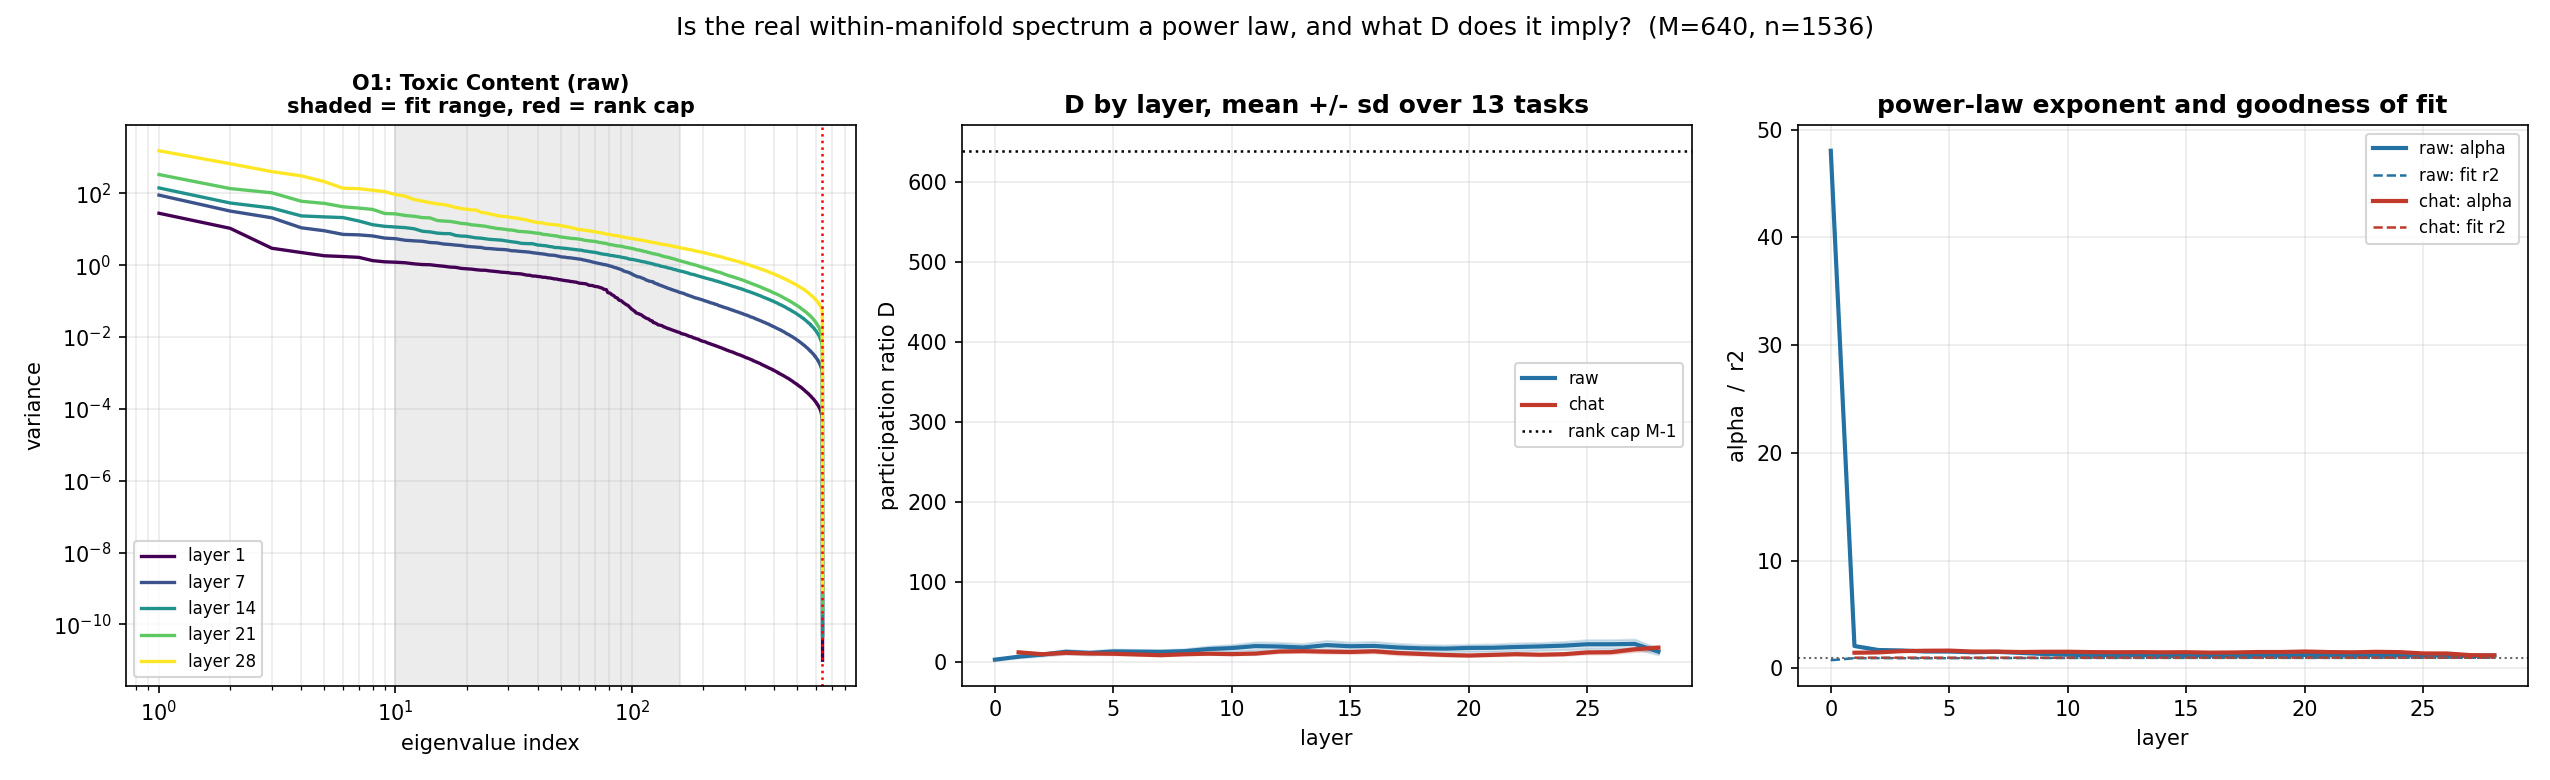
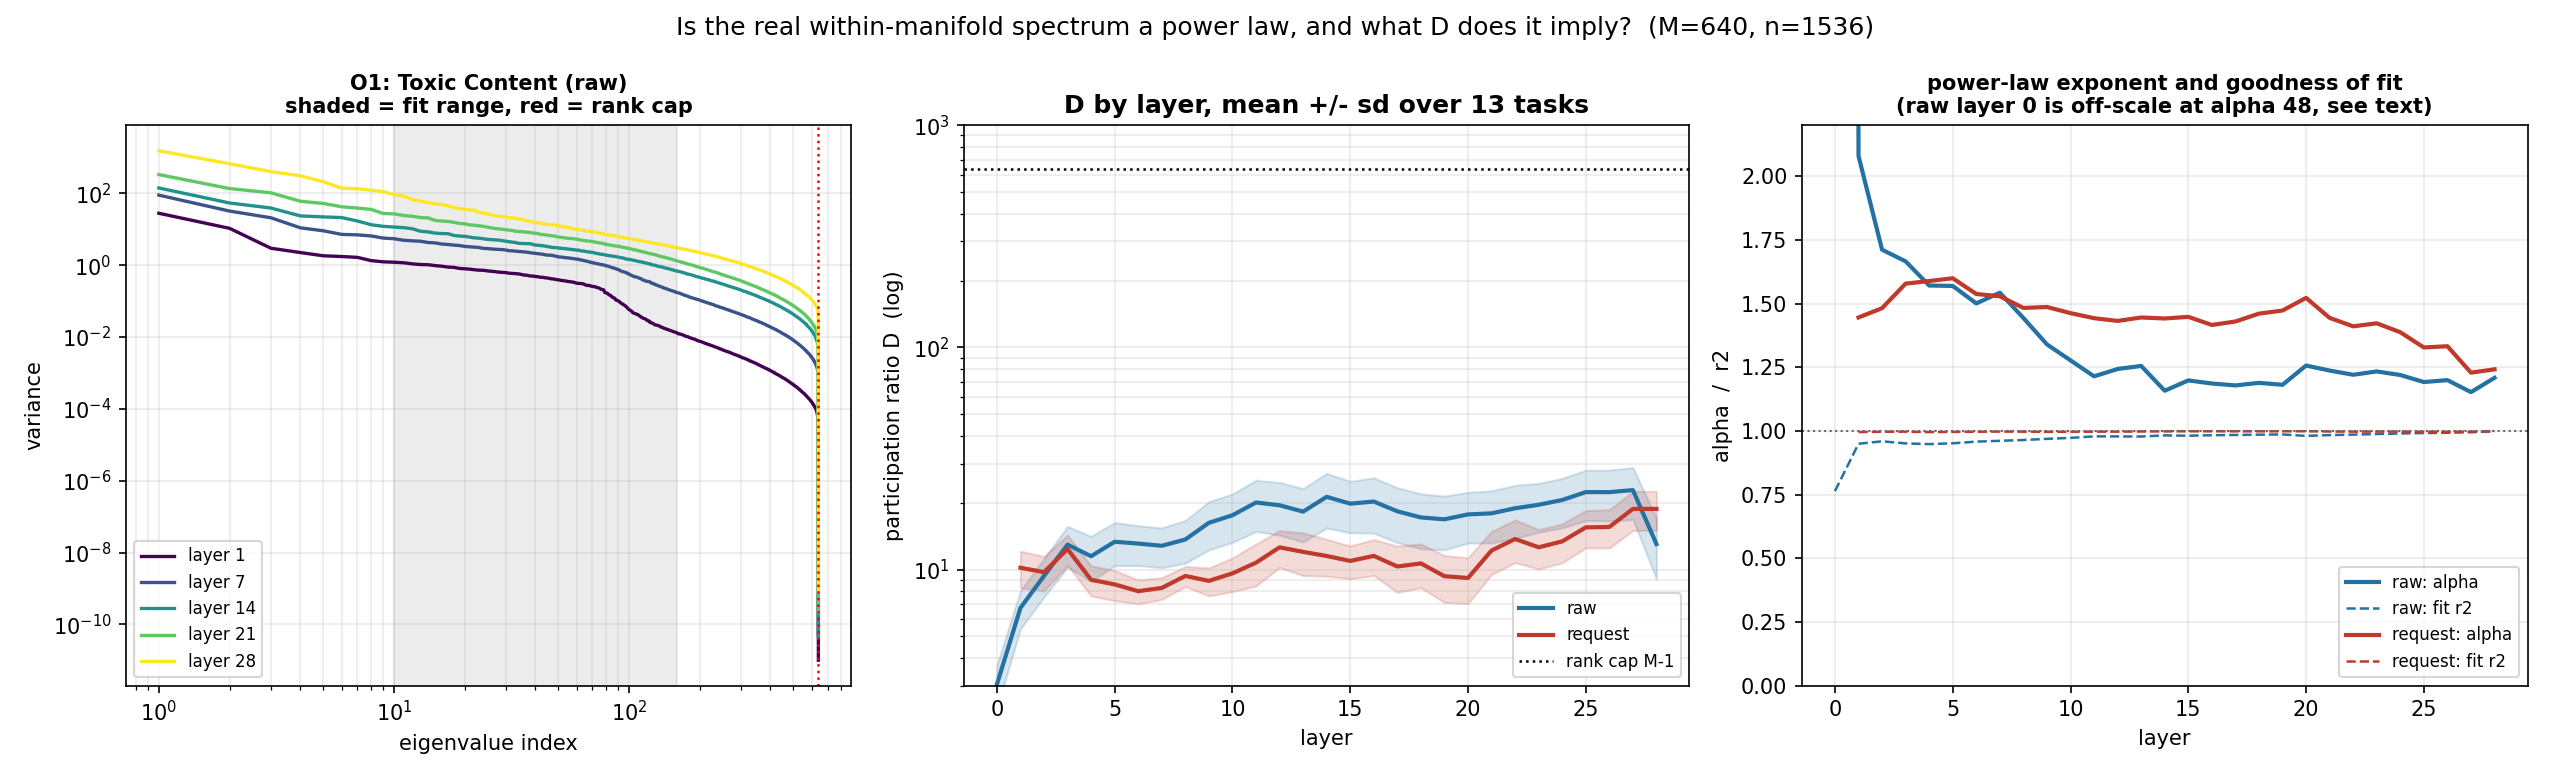
Re-run the spectrum in `request`, and make its figure readable
Completes the mode switch: 07_empirical_spectrum.py now runs raw + request like
the other three, so no figure in the README uses the retired `chat` mode.

Two of its three panels were illegible and neither problem was the data:

- D by layer sat on a linear axis with the rank cap drawn at 639, which flattened
  D (5-38) onto the x-axis. The panel exists to show the SIZE of that gap, so the
  axis is now log-scaled and both are visible at once.
- The alpha panel was dominated by raw layer 0 at alpha 48 -- a known-bad fit,
  since a bare prompt's last token takes only ~93 distinct values across 800
  prompts. The axis is clipped and the exclusion is named in the panel title
  rather than silently cropped.

Measured: layer-mean fit r2 0.96-0.999 (raw), 0.997-0.999 (request); alpha
1.0-1.9; layer-mean D 8-22 against the rank cap of 639. Per-manifold D spans
5.6-37.6, so a few sit above the D ~ 30 that check 2 verified to within 10%. The
README now says that instead of quoting a flat "10-25".

Also logged: the massive-activation dimensions are almost entirely a `raw`
phenomenon. Dropping the top-5 variance dims at layer 14 raises D by 8-11 in raw
(variance share 7-10%) but by 0.1-0.4 in request (share 2-3%).

diff --git a/scripts/07_empirical_spectrum.py b/scripts/07_empirical_spectrum.py
@@ -142,9 +142,14 @@ def main():
         ax.plot(mu, color=c, lw=2, label=mode)
         ax.fill_between(range(n_layers), mu - sd, mu + sd, color=c, alpha=.18)
     ax.axhline(M_EQUAL - 1, color="k", ls=":", lw=1.2, label="rank cap M-1")
-    ax.set_xlabel("layer"); ax.set_ylabel("participation ratio D")
+    # Log scale, or the rank cap at 639 flattens D (5-38) into an unreadable
+    # line along the axis. The point of the panel is the SIZE of that gap, so
+    # both have to be legible at once.
+    ax.set_yscale("log")
+    ax.set_ylim(3, 1000)
+    ax.set_xlabel("layer"); ax.set_ylabel("participation ratio D  (log)")
     ax.set_title("D by layer, mean +/- sd over 13 tasks", fontweight="bold")
-    ax.legend(fontsize=8); ax.grid(alpha=.25)
+    ax.legend(fontsize=8); ax.grid(alpha=.25, which="both")
 
     ax = axes[2]
     for mode, c in zip(MODES, ["#2471a3", "#c0392b"]):
@@ -152,9 +157,16 @@ def main():
         ax.plot(np.nanmean(R2[mode], 0), color=c, lw=1.2, ls="--",
                 label=f"{mode}: fit r2")
     ax.axhline(1.0, color="0.4", ls=":", lw=1)
+    # raw layer 0 fits garbage (alpha ~48, r2 0.70) because a bare prompt's last
+    # token takes only ~93 distinct values. Clipping the axis keeps that one
+    # excluded point from flattening the 27 layers that matter; it is discussed
+    # in the text rather than hidden.
+    ax.set_ylim(0, 2.2)
     ax.set_xlabel("layer"); ax.set_ylabel("alpha  /  r2")
-    ax.set_title("power-law exponent and goodness of fit", fontweight="bold")
-    ax.legend(fontsize=8); ax.grid(alpha=.25)
+    ax.set_title("power-law exponent and goodness of fit\n"
+                 "(raw layer 0 is off-scale at alpha 48, see text)",
+                 fontweight="bold", fontsize=10)
+    ax.legend(fontsize=8, loc="lower right"); ax.grid(alpha=.25)
 
     fig.suptitle("Is the real within-manifold spectrum a power law, and what D "
                  f"does it imply?  (M={M_EQUAL}, n=1536)", fontsize=12)

diff --git a/README.md b/README.md
@@ -121,9 +121,9 @@ is why $\hat D < D$.
 ![spectrum recovery](figures/check1_spectrum_recovery.png)
 
 **2, How large can D be before it cannot be measured?** Within 10% up to
-D ≈ 30 at M=640. Across the empirical range (D = 10–25) the bias moves only
-0.95 → 0.92 — approximately a shared constant, so it **cancels in cross-manifold
-comparisons**.
+D ≈ 30 at M=640. Across the empirical range (layer-mean D = 8–22, measured
+below) the bias moves only 0.95 → 0.92 — approximately a shared constant, so it
+**cancels in cross-manifold comparisons**.
 
 ![dimension recovery](figures/check2_dimension_recovery.png)
 
@@ -146,9 +146,26 @@ The right panel is also where this project's main gap lives: it establishes a
 noise floor only out to σ = 1, while the real data sits at 1.5–5.5. See
 *What this does not show*.
 
-**Run out of order, on purpose:** before trusting the synthetic null at all, is
-the real within-manifold spectrum actually a power law? It is: r^2 = 0.95–0.999
-at every layer. And D = 10–25, far below the rank cap, so M=640 is good.
+**Run out of order, on purpose:** the synthetic null assumes the within-manifold
+spectrum is a power law, $\lambda_i \propto i^{-\alpha}$. Before trusting any of
+it, is that true of the real data? Checking an assumption of the instrument
+against reality belongs before the measurement, not after.
+
+![empirical spectrum](figures/empirical_spectrum.png)
+
+It is a power law. Layer-mean fit $r^2$ is 0.96–0.999 (`raw`) and 0.997–0.999
+(`request`) at every layer 2–28, with α between 1.0 and 1.9 — so the synthetic
+family is the right one.
+
+And **D is small: layer-mean 8–22 against a rank cap of 639.** The measurement is
+nowhere near censored, which is what makes M=640 defensible. Individual manifolds
+span 5.6–37.6, so a handful sit just above the D ≈ 30 that check 2 verified to
+within 10%; those are the least-trustworthy points in the set.
+
+Two exclusions, both stated rather than quietly dropped. `raw` layer 0 fits
+badly ($r^2$ 0.70, α 48) because the last token of a bare prompt takes only ~93
+distinct values across 800 prompts — it is off-scale in the right panel.
+`request` layer 0 is exactly degenerate.
 
 ## Results
 
@@ -374,18 +391,27 @@ figures/                the plots reproduced in this README
 
 ## Running it
 
-CPU only. Extraction is the only slow part, everything downstream reads cached
-tensors and runs in seconds.
+CPU only. Extraction is the only slow part. Everything downstream reads cached
+tensors — seconds for the permutation tests, ~15 min for the spectra, which
+SVD 13 manifolds at every layer in both modes.
 
 ```bash
+python scripts/02_explore_salad.py    # taxonomy tree and confound report
+python scripts/03_audit_plot.py       # -> salad_task_counts.png
+
 python scripts/04_extract.py          # ~10 h, 3 readout modes, 13 tasks
 python scripts/13_extract_mmlu.py     # ~3 h
+
 python scripts/07_empirical_spectrum.py
 python scripts/09_empirical_nesting.py
 python scripts/10_random_partition.py
 python scripts/11_lexical_control.py
+python scripts/12_refusal.py
 python scripts/14_compare_taxonomies.py
 ```
+
+Figures land in `results/`, which is gitignored; `figures/` holds the copies this
+README embeds.
 
 Synthetic checks need no data:
 

diff --git a/logs/research_log.md b/logs/research_log.md
@@ -213,7 +213,7 @@ constant offset shared by every prompt and the nesting statistic is built from
 centroid *differences*. Expected the p-values to move a little and the direction
 to be unchanged. Would have been surprised by a sign flip.
 
-**Setup.** No new forward passes -- `request` activations for all 13 tasks were
+**Setup.** No new forward passes, `request` activations for all 13 tasks were
 already cached from 2026-08-28. Changed MODES in scripts 07, 09, 10, 11 from
 ["raw","chat"] to ["raw","request"] and reran. M=640, 2000 permutations
 (partition) / 4000 (lexical).
@@ -231,7 +231,7 @@ already cached from 2026-08-28. Changed MODES in scripts 07, 09, 10, 11 from
     residual p      raw 0.037 -> 0.004 (L2 -> L28), survives at all 6 layers
                     request 0.112 at L2, 0.063 at L20, else < 0.021
 
-**One claim weakened.** The residual does NOT survive at every layer under
+**One claim weakened.** The residual does not survive at every layer under
 `request`. Claim 4 said it survives, full stop; that was true of raw+chat and is
 not true of raw+request. Amended below.
 
@@ -241,10 +241,17 @@ plots the normalised effect size beside it: flat, while p falls.
 
 **Read.** The headline result is robust to readout position. The
 lexical-independent part of it is not, and that is now stated as a limitation
-rather than left implicit in a figure nobody would check.
+rather than left implicit in a figure.
 
-**Next.** Recalibrate within_scale and run the power sweep at spread/separation
-1.5-5.5. Still the one real gap.
+**Spectrum, re-measured in request.** Layer-mean fit r2 0.958-0.999 (raw),
+0.997-0.999 (request); alpha 1.02-1.85. Layer-mean D 8-22 against the rank cap
+639, per-manifold 5.6-37.6 -- so a few manifolds sit above the D ~ 30 that check
+2 verified, which the README now says rather than quoting "10-25" as before.
+
+The massive-activation ablation still holds and is sharper in request: dropping
+the 5 highest-variance dims at layer 14 raises D by 8-11 in raw (top-5 variance
+share 7-10%) but by only 0.1-0.4 in request (share 2-3%). Those dimensions move
+the centroid.
 
 --------------------------------------------------------------------------------
 

diff --git a/logs/weird.md b/logs/weird.md
@@ -47,3 +47,15 @@ Format: `YYYY-MM-DD — observation. (where it came up)`
 - 2026-09-01 — MMLU nests in `request` mode (z = −3.6 at layers 22–26) but barely
   at all in `raw`. SALAD nests in both. Readout position changes which taxonomy
   shows structure. (23_compare_taxonomies)
+
+- 2026-09-04 — The taxonomy effect is robust to readout position but the
+  LEXICAL-INDEPENDENT part of it is not. Re-running in `request` instead of the
+  retired `chat`, the raw-mode residual survives at all six sampled layers while
+  request fails at L2 (p = 0.11) and is marginal at L20 (p = 0.063). Whatever
+  survives the vocabulary control is more fragile than the headline effect, and
+  I had been treating them as one claim. (10_random_partition, 11_lexical_control)
+
+- 2026-09-04 — The massive-activation dimensions are almost entirely a `raw`
+  phenomenon. Dropping the top-5 variance dims at layer 14 raises D by 8–11 in
+  raw (variance share 7–10%) but by 0.1–0.4 in request (share 2–3%). The chat
+  template appears to absorb them. (07_empirical_spectrum)
